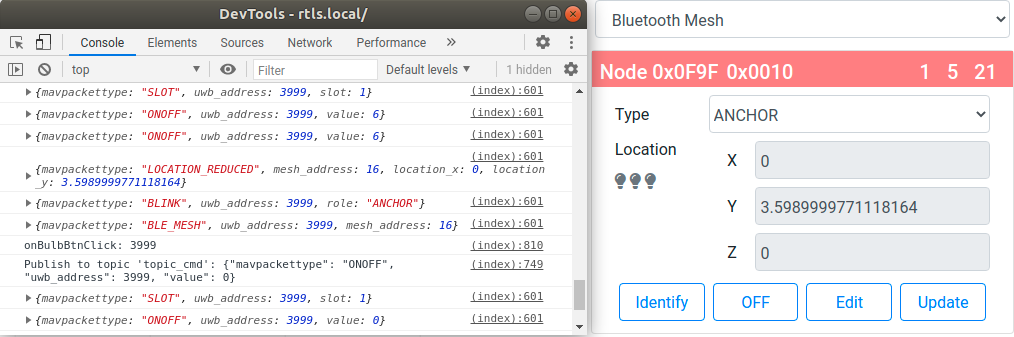
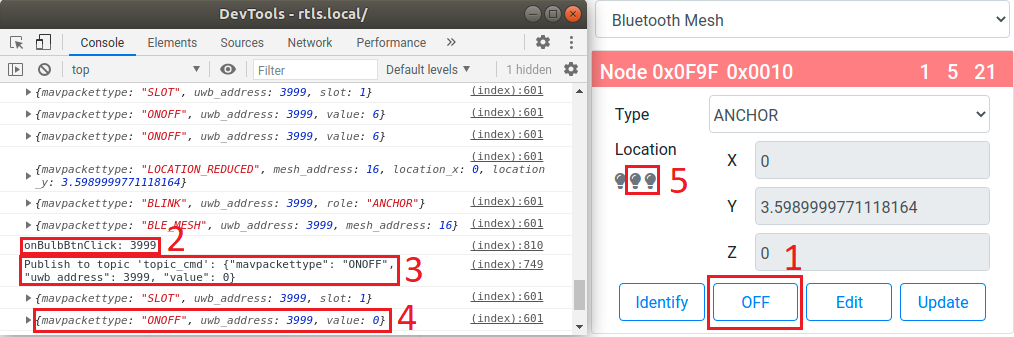
update remote control  report

diff --git a/reports/06_result/result.tex b/reports/06_result/result.tex
@@ -219,21 +219,21 @@ System error increases significantly when anchors are placed to form a narrow sh
 In this thesis, the Bluetooth mesh network is also configured to provide some IoT services. This subsubsection presents the result of remotely controlling the bulb attached to each anchor.
 \subsubsection{Result}
 
-Figure \ref{fig:result_remote_control_off_result} illustrated the OFF state of the bulb when the GUI sends OFF message as given in figure \ref{fig:result_remote_control_off_gui}.
+Figure \ref{fig:result_remote_control_off_result} illustrated the OFF state of the bulb when receiving OFF messages. As shown in figure \ref{fig:result_remote_control_off_gui}, when a user clicks on the light control button (marked as red number 1), the web socket will publish an ONOFF message with the value of 0 (marked as red number 3). After a while, the GUI receives an ONOFF reply message from the localization system (marked as red number 4) and displays the result using two small light bulb icons (marked as red number 5).
 
-Figure \ref{fig:result_remote_control_on_result} illustrated the ON state of the bulb when the GUI sends ON message as given in figure \ref{fig:result_remote_control_on_gui}.
+Figure \ref{fig:result_remote_control_on_result} illustrated the ON state of the bulb when receiving ON messages. As shown in figure \ref{fig:result_remote_control_on_gui}, when a user clicks on the light control button (marked as red number 1), the web socket will publish an ONOFF message with the value of 6 (marked as red number 3). After a while, the GUI receives an ONOFF reply message from the localization system (marked as red number 4) and displays the result using two small light bulb icons (marked as red number 5).
 
 \begin{figure}[H]
     \centering
     \includegraphics[width=1\textwidth]{result_remote_control_off_gui.png}
-    \caption{Bulb off}
+    \caption{Control the bulb off}
     \label{fig:result_remote_control_off_gui}
 \end{figure}
 
 \begin{figure}[H]
     \centering
     \includegraphics[width=1\textwidth]{result_remote_control_on_gui.png}
-    \caption{Bulb on}
+    \caption{Control the bulb on}
     \label{fig:result_remote_control_on_gui}
 \end{figure}
 
@@ -277,4 +277,5 @@ Figure \ref{fig:result_remote_control_on_result} illustrated the ON state of the
 
 \subsubsection{Evaluation}
 The Bluetooth mesh system has successfully provided remote control service to the system.
+
 \end{document}

diff --git a/reports/main.tex b/reports/main.tex
@@ -170,16 +170,29 @@
     
     \chapter{RTLS anchor enclosure (SolidWorks)}
     \label{appendix:rtls_anchor_enclosure}
+    % \begin{figure}[H]
+    %     \begin{center}
+    %         \includegraphics[angle=90, width=0.65\textwidth]{Assem.JPG}
+    %     \end{center}
+    %     \caption{RTLS SolidWorks design}
+    %     \label{fig:RTLS_SolidWork_Design}
+    % \end{figure}
+    % \begin{figure}[H]
+    %     \centering
+    %     \includegraphics[angle=90, width=0.65\textwidth]{anchor_final.jpg}
+    %     \caption{RTLS anchor}
+    %     \label{fig:RTLS_anchor}
+    % \end{figure}
     \begin{figure}[H]
         \begin{center}
-            \includegraphics[angle=90, width=0.65\textwidth]{Assem.JPG}
+            \includegraphics[width=0.8\textwidth]{Assem.JPG}
         \end{center}
         \caption{RTLS SolidWorks design}
         \label{fig:RTLS_SolidWork_Design}
     \end{figure}
     \begin{figure}[H]
         \centering
-        \includegraphics[angle=90, width=0.65\textwidth]{anchor_final.jpg}
+        \includegraphics[width=0.8\textwidth]{anchor_final.jpg}
         \caption{RTLS anchor}
         \label{fig:RTLS_anchor}
     \end{figure}
